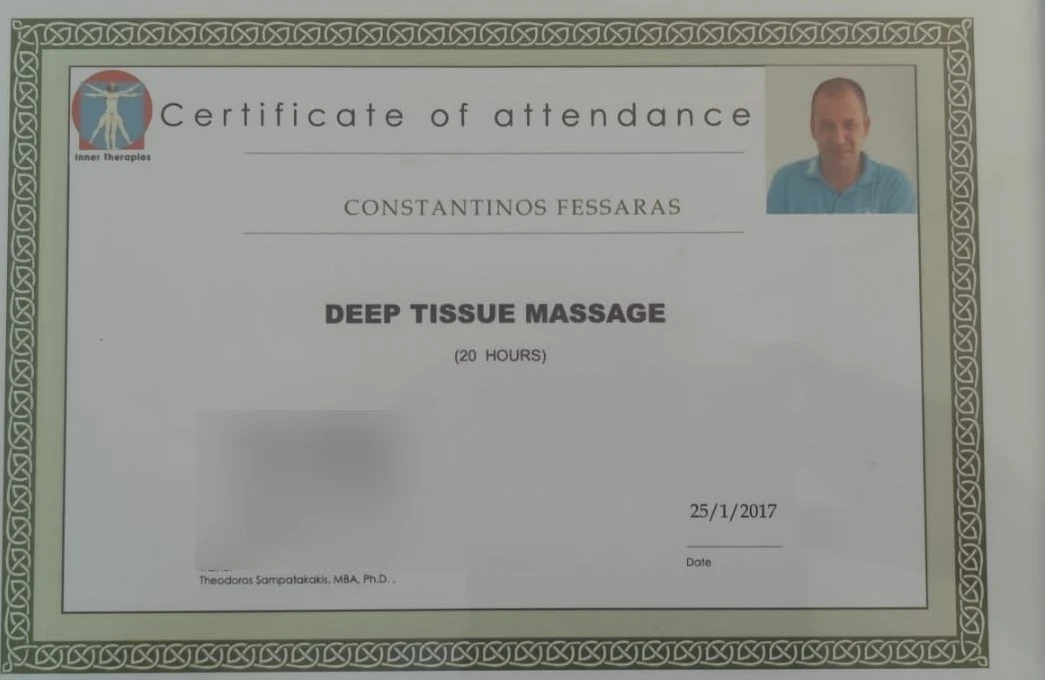
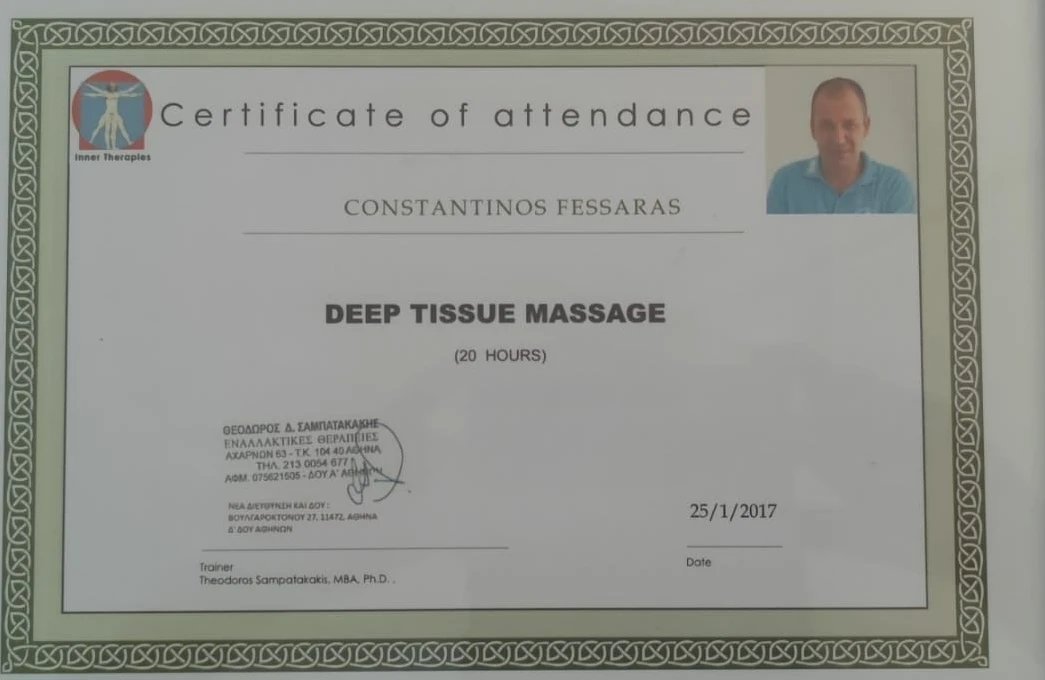
feat(about): see-reviews button, full review wall, stacked certificate cards with lightbox
- about intro: "See reviews" button jumping to #testimonials (10 locales)
- review wall shows every testimonial; drop the show-more limit, button and JS
- credential cards: equal height, scans in a fixed 4:3 frame pinned to the bottom
- WMF card: detailed attestation stacked behind the certificate
- certificate scans open in a <dialog> lightbox (plain link without JS)
- re-exported deep-tissue, indian-head-2017 and wmf-program scans, stamps and
  lawyer block unredacted at the owner's request; wmf-program now 770x1030

Changed region(s): [[0.2144, 0.6176, 0.3981, 0.8029]]

diff --git a/src/assets/css/main.css b/src/assets/css/main.css
@@ -513,14 +513,28 @@ hr { border: 0; border-top: 1px solid var(--line); margin: var(--gap-lg) 0; }
 
 /* ---------- credentials ---------- */
 .creds { display: grid; gap: var(--gap); }
-@media (min-width: 46em) { .creds { grid-template-columns: repeat(2, 1fr); } }
-.cred { background: var(--surface); border: 1px solid var(--line); border-radius: var(--radius); padding: 1.15rem 1.25rem; }
+@media (min-width: 46em) { .creds { grid-template-columns: repeat(2, 1fr); grid-auto-rows: 1fr; } }
+.cred { background: var(--surface); border: 1px solid var(--line); border-radius: var(--radius); padding: 1.15rem 1.25rem; display: flex; flex-direction: column; gap: 1rem; }
 .cred h3 { font-size: var(--step-1); margin-bottom: 0.25rem; }
 .cred dl { margin: 0.5rem 0 0; font-size: var(--step--1); color: var(--muted); display: grid; grid-template-columns: auto 1fr; gap: 0.15rem 0.6rem; }
 .cred dt { font-weight: 600; }
 .cred dd { margin: 0; }
-.cred figure { margin: 1rem 0 0; }
-.cred img { border: 1px solid var(--line); border-radius: var(--radius); }
+/* Same 4:3 frame on every card, pinned to the bottom, so the scans line up
+   whatever their own shape. */
+.cred figure { margin: auto 0 0; position: relative; aspect-ratio: 4 / 3; background: var(--shell-warm); border-radius: var(--radius); overflow: hidden; }
+.cred figure img { position: absolute; inset: 0.75rem; width: calc(100% - 1.5rem); height: calc(100% - 1.5rem); object-fit: contain; }
+.cred .cred__stack img { inset: auto; top: 4%; width: auto; height: 92%; box-shadow: var(--shadow); }
+.cred .cred__stack a:first-child img { left: 12%; z-index: 1; }
+.cred .cred__stack a:last-child img { right: 7%; top: 9%; height: 78%; transform: rotate(5deg); opacity: 0.9; }
+.cred__stack a:hover img, .cred__stack a:focus-visible img { z-index: 2; }
+.lightbox { padding: 0; border: 0; border-radius: var(--radius); background: var(--surface); box-shadow: var(--shadow-lg); max-width: calc(100vw - 2rem); max-height: calc(100dvh - 2rem); overflow: visible; }
+.lightbox::backdrop { background: rgba(20, 48, 58, 0.75); }
+.lightbox img { display: block; max-width: calc(100vw - 2rem); max-height: calc(100dvh - 2rem); width: auto; height: auto; border-radius: var(--radius); }
+.lightbox__close { position: absolute; top: 0.5rem; right: 0.5rem; width: 2.75rem; height: 2.75rem; display: grid; place-items: center; border: 0; border-radius: 50%; background: var(--surface); color: var(--ink); box-shadow: var(--shadow); cursor: pointer; }
+.lightbox__close svg { width: 1.4rem; height: 1.4rem; }
+.lightbox__close:focus-visible { outline: 3px solid var(--sea); outline-offset: 2px; }
+.cred__stack a:focus-visible { outline: none; }
+.cred__stack a:focus-visible img { outline: 3px solid var(--sea); outline-offset: 2px; }
 
 /* ---------- contact tiles / FAQ ---------- */
 .tiles { display: grid; gap: var(--gap); }

diff --git a/src/assets/js/site.js b/src/assets/js/site.js
@@ -215,17 +215,23 @@
     })(quoteToggles[qi]);
   }
 
-  /* ---------- testimonial "show more" ---------- */
-  var quoteMoreBtns = doc.querySelectorAll("[data-quote-more]");
-  for (var qmi = 0; qmi < quoteMoreBtns.length; qmi++) {
-    (function (btn) {
-      var wall = btn.closest("[data-quote-wall]");
-      if (!wall) return;
-      btn.addEventListener("click", function () {
-        var extras = wall.querySelectorAll("[data-quote-extra]");
-        for (var i = 0; i < extras.length; i++) extras[i].hidden = false;
-        btn.hidden = true;
+  /* ---------- certificate lightbox ---------- */
+  // The links still work without JS (they open the scan itself); this keeps the
+  // visitor on the page instead.
+  var lightbox = doc.querySelector("[data-lightbox-dialog]");
+  if (lightbox && lightbox.showModal) {
+    var lbImg = lightbox.appendChild(doc.createElement("img"));
+    var lbLinks = doc.querySelectorAll("[data-lightbox]");
+    for (var li = 0; li < lbLinks.length; li++) {
+      lbLinks[li].addEventListener("click", function (e) {
+        e.preventDefault();
+        lbImg.src = this.getAttribute("href");
+        lbImg.alt = this.querySelector("img").alt;
+        lightbox.showModal();
       });
-    })(quoteMoreBtns[qmi]);
+    }
+    lightbox.querySelector(".lightbox__close").addEventListener("click", function () { lightbox.close(); });
+    // A click on the backdrop lands on the dialog itself, not on its children.
+    lightbox.addEventListener("click", function (e) { if (e.target === lightbox) lightbox.close(); });
   }
 })();
